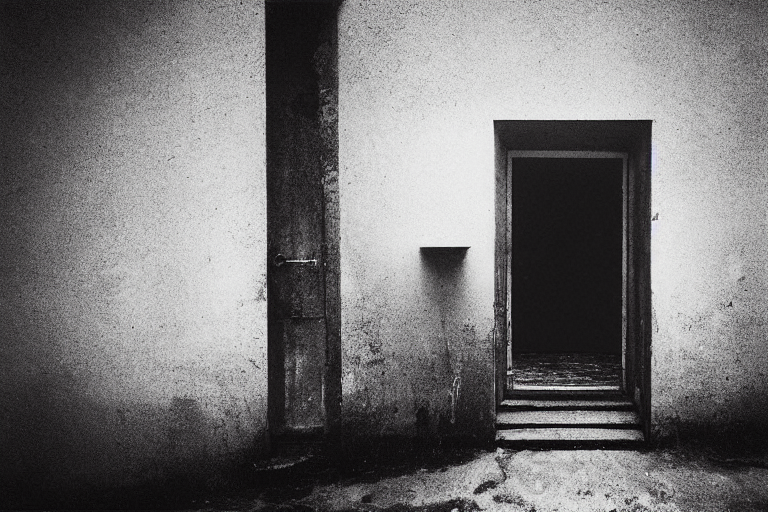
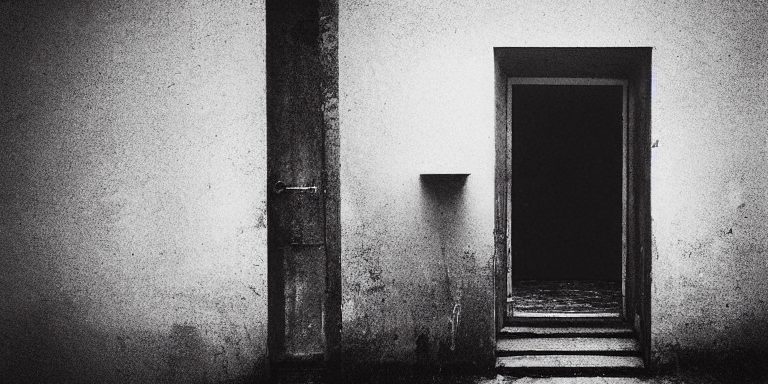
New blog post

diff --git a/docs/_posts/2022-11-06-babyface.md b/docs/_posts/2022-11-06-babyface.md
@@ -1,0 +1,38 @@
+---
+layout: post
+title:  Babyface
+date: 2022-11-06 20:00
+categories: ecriture
+image: /assets/images/first_post.png
+tags: [nouvelle, cyberpunk]
+published: true
+soundscape: 
+author: vintz
+image: /assets/images/babyface.png
+---
+
+&nbsp;&nbsp;\- Debout Babyface. Tu peux pas les laisser gagner. C'est des connards. Pire que toi. Y a personne de pire que moi, la plus grosse tête de con de ce coté de l'univers.  
+
+Soudain, elle se revit, deux ans auparavant, quand elle était encore une gentille fille qui passait son temps à jouer du violon en espèrant obtenir un contrat. C'était avant sa première mission, avant que ces cons de corpo ne fassent sauter son immeuble pour la "réhabilitation du quartier". Ils avaient chassé les pauvres gens qui vivaient dans le coin pour y construire une arcologie dernière génération. Une fuite de gaz qu'ils avaient dit. "Fuite de gaz, mon cul" qu'elle leur avait répondu.
+
+&nbsp;&nbsp;\- Debout Babyface... Quel nom à la con. Tu préfères Hyun-me? Debout Hyun-me? Lève toi, bordel. Tu peux pas t'arrêter là. Et pourquoi pas? T'entends pas mon moniteur qui hurle que je vais crever? J'ai mal et je suis en train de clamser, ça me donne le droit de tout laisser tomber, non? Tu es Babyface l'immortelle, tu peux pas laisser tomber. C'est facile, ça. C'est pas eux qui doivent se lever avec 3 balles dans le buffet, un bras en vrac et la moitié du bide repandu dans la pièce. Si ils veulent ma place, je la leur laisse...  
+
+Elle avait souvent été prise dans des échanges de coups de feu et parfois même dans des explosions. Elle y avait perdu son innocence et son bras gauche. Elle les avait remplacés par un nihilisme absolu et un bras cybernétique au rabais couvert de taches de rouille. Ses amis et sa petite amie détestaient son bras mais elle, elle l'adorait. Comme un ultime geste de rebellion contre ce monde d'apparence et de chrome. 
+
+&nbsp;&nbsp;\- Debout petite conne. Putain comment tu me parles? Je te déteste. T'es rien qu'une abrutie, incapable de savoir quand s'arrêter...  
+
+Elle s'était battue tellement de fois qu'elle ne faisait plus de différence entre les gens sur qui elle tirait. A condition que ça fasse braire les corporations qu'elle detestait tant, elle était prête à se lancer dans n'importe quel plan aussi stupide soit-il. Elle en était venue à se haïr elle-même, incapable d'avancer ou de faire fléchir d'un iota les corporations qui pourrissaient le monde. Elle savait tant de choses sur ces types en costume de grand couturier, tous leurs coups tordus, leurs magouilles... Pourtant, tout ce qu'elle savait ne servait à rien face à la machine de mort des grandes corpos. 
+
+&nbsp;&nbsp;\- Debout tueuse!  Putain lève toi... Costa et Daisy vont crever. Je les déteste. Pourquoi je les sauverai? Ce sont tes amis. Rien à foutre.  
+
+Mais elle était fière de sa réputations de dure-à-cuire. Elle ne savait pas précisement si les gens la craignaient ou la respectaient. Elle aurait voulu être aimée mais elle n'avait que de la peur à leur offrir. Pour survivre dans la jungle de bitume, mieux valait être un putain de crocodile qu'un mignon petit koala. Elle avait des amis, des gens pour qui elle serait morte sans sourciller mais elle passait son temps à leur gueuler dessus, à leur cracher sa haine à la face, bien trop effrayée qu'ils voient combien ils comptaient. 
+
+&nbsp;&nbsp;\- Debout Babyface. Tu dois le faire. Tu vas pas me lacher, hein? Bon ok, je me lève. Et après ça, tu me laisseras crever en paix!  
+
+La jeune fille se redressa avec difficulté. Dans son oreille, une voix electronique répétait sans cesse la même litanie: "Dégats physiologiques majeurs. Sans intervention médicale, le décès interviendra dans moins de 5 minutes.". Elle mit une minute à se mettre debout. Les cyborgs de la milice couvraient le batiment tout proche d'un feu nourri. A l'intérieur, des tirs sporadiques lui indiquaient que ses amis étaient toujours vivants. Elle s'avança en titubant vers les agents de la milice qui ne lui prétaient aucune attention. 
+
+&nbsp;&nbsp;\- Adieu Babyface. Ouais, adieu pauvre nouille. On se sera quand même bien amusé.  
+
+Elle mit une minutes de plus pour atteindre son objectif.  Son blouson était couvert de sang et troué en plusieurs endroits. Elle tenait à peine debout. Elle avait l'air si fragile, comme une enfant sur un champ de bataille. Sa voix n'était qu'un souffle lorsqu'elle leur dit "Bye bye les connards" en appuyant sur le détonateur. La charge tactique réduisit son corps en charpie. Elle mit également en miette toute l'unité de cyborgs surentrainés. On dit que l'explosion s'est entendu jusqu'au mur des quartiers corpo, là où les riches dorment sous la protection de leur milice de cyborgs. 
+
+Lorsque Daisy et Costa fouillèrent les débris, ils ne trouvèrent d'elle qu'une seule chose, une dernière relique de celle qu'on appelait Babyface: son bras cybernétique tout rouillé. 
